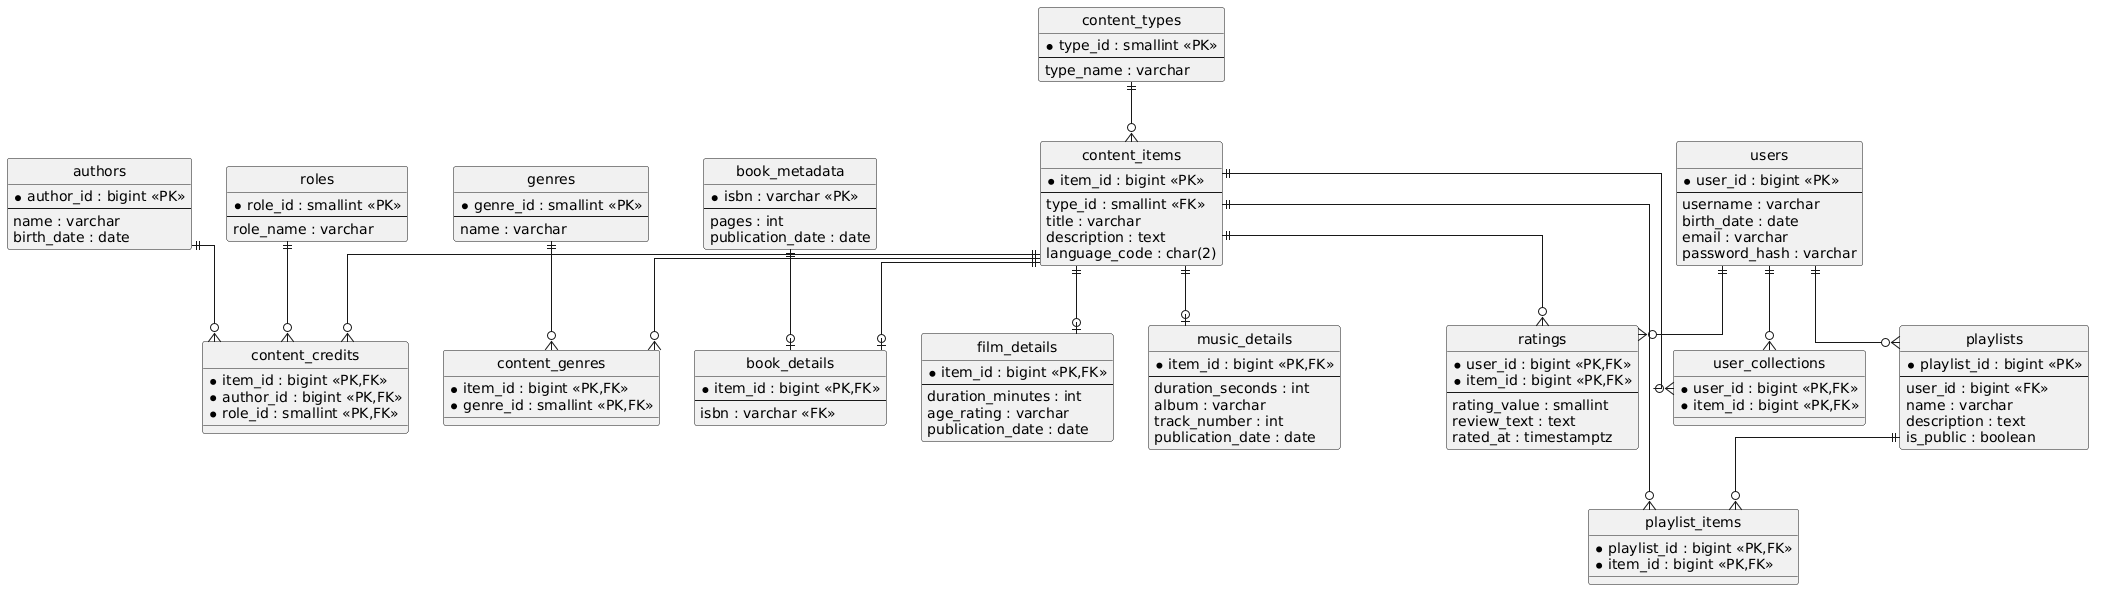
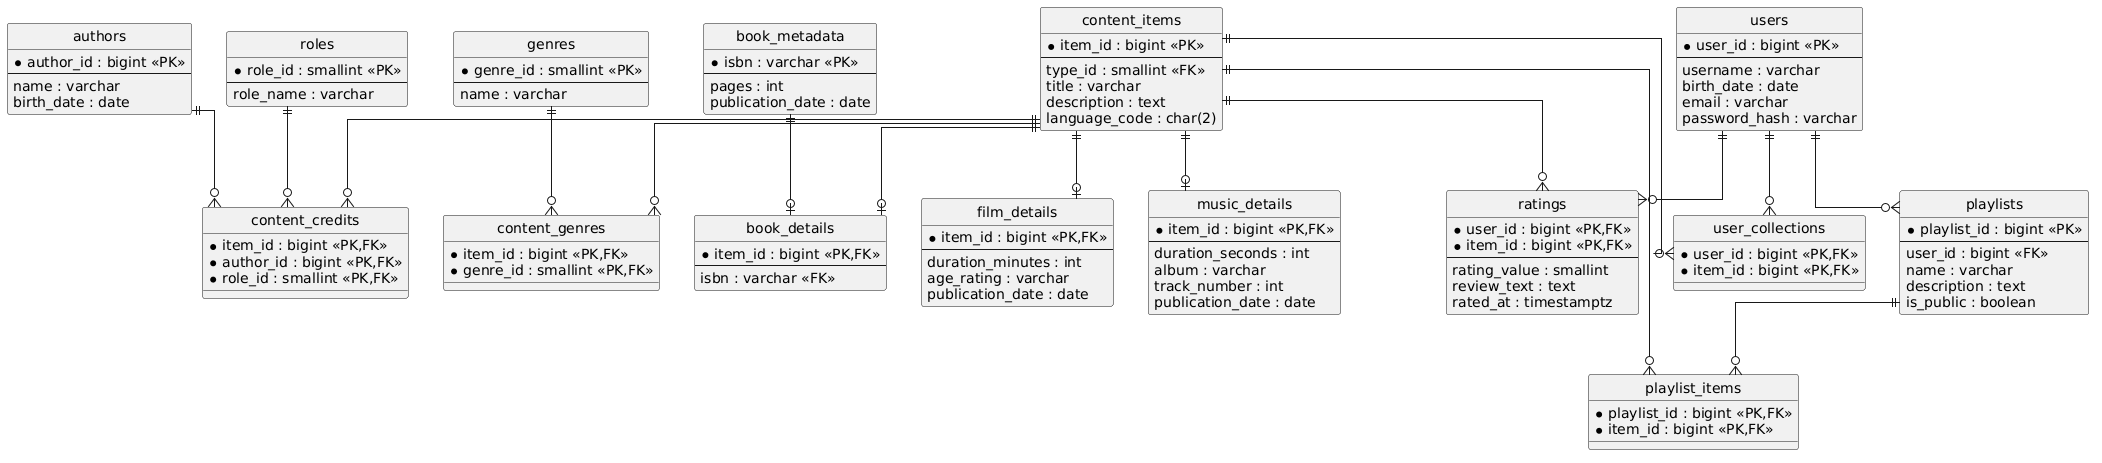
1/1

diff --git a/lab_1/README.md b/lab_1/README.md
@@ -18,7 +18,6 @@
 
 ### Контент
 
-* **content_types** — справочник типов контента (книга, фильм, музыка)
 * **content_items** — основной каталог контента
 
 ---
